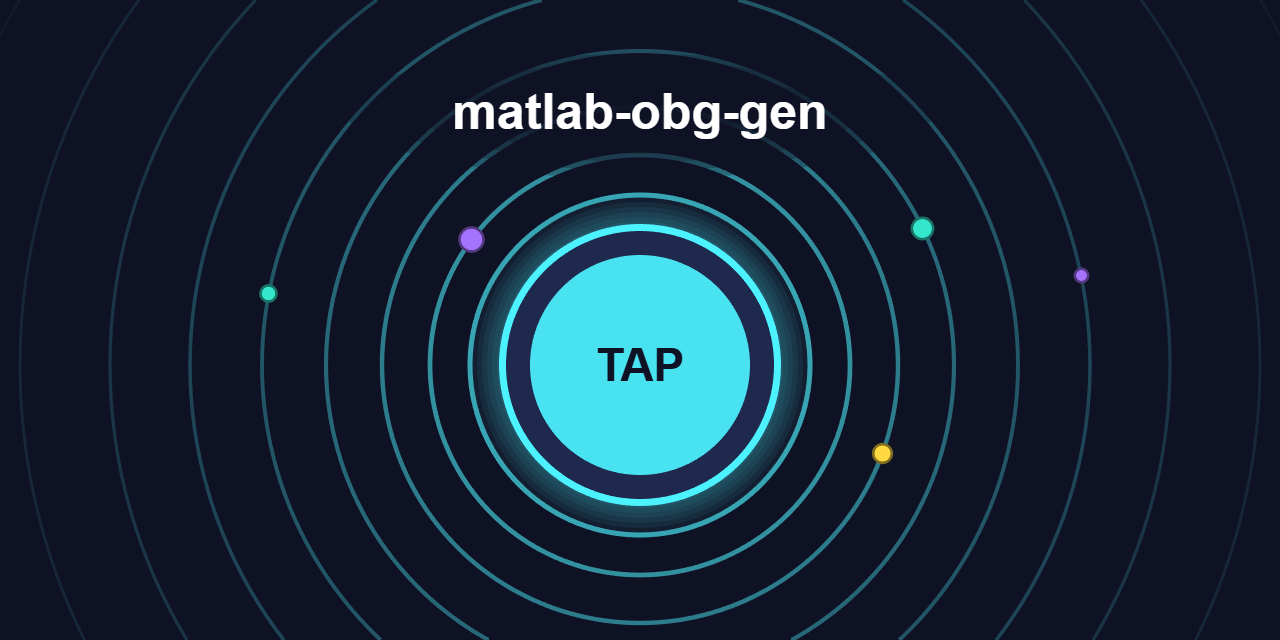
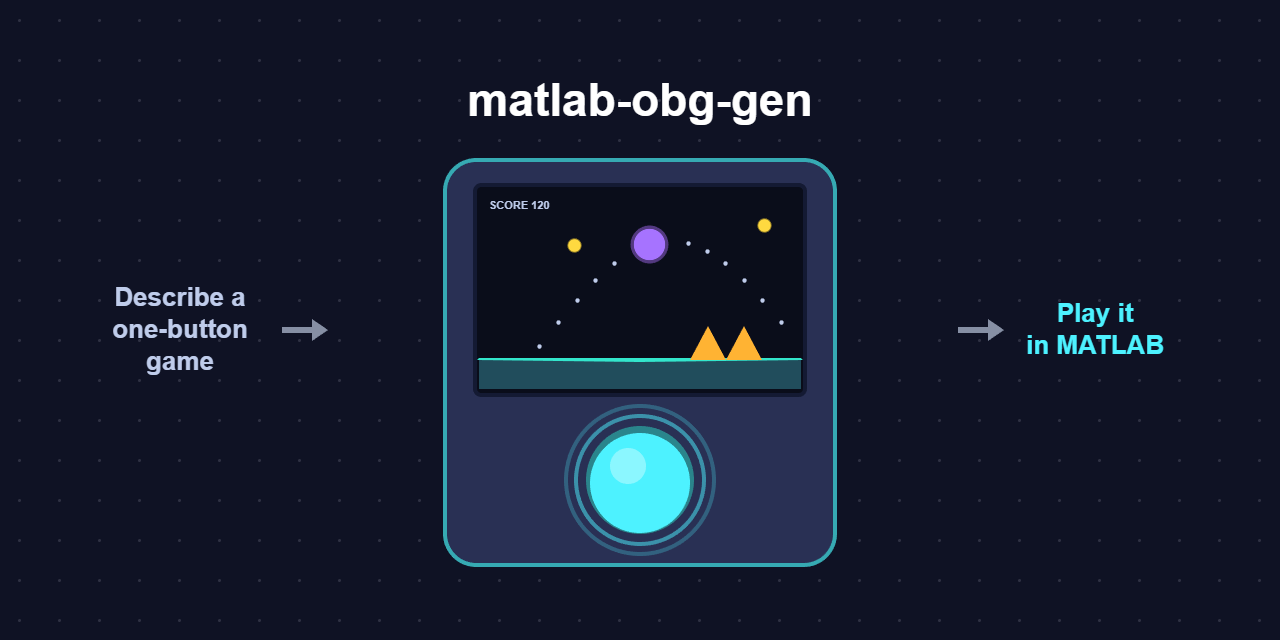
Social preview: a one-button game console (name, a game mid-jump, one big button), pitch at the sides

diff --git a/docs/makeSocialPreview.m b/docs/makeSocialPreview.m
@@ -1,15 +1,17 @@
 % Builds docs/images/social-preview.png (1280x640), the GitHub repo's social
-% preview: the name over one big button just tapped, its ripples spreading
-% out to the edges of the image. Everything is drawn in MATLAB.
+% preview: the name over a little one-button game console, its screen
+% showing a game mid-jump and its single big button just pressed.
+% Everything is drawn in MATLAB.
 %
 % Link previews crop hard. Teams shows a small 5:4 thumbnail of only the
 % centre of the image (measured: about x 333-948, y 77-569 of 1280x640), so
-% the name and the button sit inside x 350-930, y 90-550, drawn big enough to
-% read at thumbnail size. The ripples fill the rest, so any crop just trims
-% rings and still looks deliberate.
+% the name and the console sit inside x 350-930, y 90-550, drawn big enough
+% to read at thumbnail size. A dot grid runs to the edges, so any crop looks
+% deliberate.
 here = fileparts(mfilename('fullpath'));
-navy = [.06 .07 .14]; cyan = [.3 .95 1];
-violet = [.65 .45 1]; teal = [.2 .9 .8]; gold = [1 .85 .25];
+navy = [.06 .07 .14]; cyan = [.3 .95 1]; amber = [1 .7 .2];
+violet = [.65 .45 1]; teal = [.2 .9 .8]; gold = [1 .85 .25]; grey = [.75 .8 .92];
+body = [.16 .19 .33];
 
 f = uifigure('Visible', 'off', 'Units', 'pixels', 'Position', [50 50 1280 640]);
 ax = uiaxes(f, 'Units', 'pixels');
@@ -18,42 +20,53 @@ ax.YDir = 'reverse';
 ax.XTick = []; ax.YTick = []; ax.XAxis.Visible = 'off'; ax.YAxis.Visible = 'off';
 ax.Toolbar.Visible = 'off'; disableDefaultInteractivity(ax); hold(ax, 'on');
 patch(ax, [-100 1380 1380 -100], [-100 -100 740 740], navy, 'EdgeColor', 'none');
+[gx, gy] = meshgrid(20:40:1260, 20:40:620);   % a faint dot grid to the edges
+plot(ax, gx(:), gy(:), '.', 'Color', navy + .12, 'MarkerSize', 7);
 
-c = 640 + 365i; t = (0:179)*2*pi/180;   % no repeated end point (it shows as a seam)
-R = [170 210 258 314 378 450 530 620 720];
-for j = 1:numel(R)   % ripples, fading as they spread
-    z = c + R(j)*exp(1i*[t t(1:3)]);   % overlap the ends so there's no cap at the join
-    % a line, not a patch outline: patch edges show a seam where they close
-    plot(ax, real(z), imag(z), '-', 'LineWidth', 4 - 2*j/numel(R), ...
-        'Color', navy + .75*(1 - j/(numel(R) + 1))^1.3*(cyan - navy));   % opaque: no overlap tick at the join
+text(ax, 640, 100, 'matlab-obg-gen', 'FontSize', 46, 'FontWeight', 'bold', 'Color', 'w', ...
+    'HorizontalAlignment', 'center');
+
+% the pitch out to the sides (seen on GitHub; Teams crops it away)
+text(ax, 180, 330, sprintf('Describe a\none-button\ngame'), 'FontSize', 26, 'FontWeight', 'bold', ...
+    'Color', grey, 'HorizontalAlignment', 'center', 'VerticalAlignment', 'middle');
+text(ax, 1095, 330, sprintf('Play it\nin MATLAB'), 'FontSize', 26, 'FontWeight', 'bold', ...
+    'Color', cyan, 'HorizontalAlignment', 'center', 'VerticalAlignment', 'middle');
+for x0 = [282 958]   % arrows: idea -> console -> play (outside the Teams crop)
+    patch(ax, x0 + [0 30 30 46 30 30 0], 330 + [-3 -3 -11 0 11 3 3], grey*.7, 'EdgeColor', 'none');
 end
-% a few balls riding the ripples, in the game colours
-b = c + [R(2)*exp(-2.5i) R(4)*exp(-.45i) R(3)*exp(.35i) R(5)*exp(-2.95i) R(6)*exp(-.2i)];
-k = [violet; teal; gold; teal; violet];
-for j = 1:numel(b)
-    plot(ax, real(b(j)), imag(b(j)), 'o', 'MarkerSize', 20 - 2*j, ...
-        'MarkerFaceColor', k(j, :), 'Color', k(j, :)/2, 'LineWidth', 2);
+
+% the console
+t = (0:179)*2*pi/180;
+rectangle(ax, 'Position', [445 160 390 405], 'Curvature', .16, 'FaceColor', body, ...
+    'EdgeColor', cyan*.7, 'LineWidth', 3);
+
+% its screen: a little game, mid-jump
+sx = [475 805]; sy = [185 395];
+rectangle(ax, 'Position', [sx(1) sy(1) diff(sx) diff(sy)], 'Curvature', .06, ...
+    'FaceColor', [.04 .05 .1], 'EdgeColor', [.08 .1 .2], 'LineWidth', 3);
+patch(ax, [sx(1)+4 sx(2)-4 sx(2)-4 sx(1)+4], [360 360 sy(2)-6 sy(2)-6], [.13 .3 .36], 'EdgeColor', 'none');
+plot(ax, [sx(1)+4 sx(2)-4], [360 360], '-', 'Color', teal, 'LineWidth', 3);
+patch(ax, [690 708 726 744 762], [360 326 360 326 360], amber, 'EdgeColor', 'none');   % spikes
+arc = @(x) 346 - 105*sin(pi*(x - 540)/260);   % the jump, over the spikes
+x = linspace(540, 800, 15); k = x < 790 & abs(x - 650) > 20;
+plot(ax, x(k), arc(x(k)), '.', 'Color', grey, 'MarkerSize', 10);
+plot(ax, 650, arc(650), 'o', 'MarkerSize', 26, 'MarkerFaceColor', violet, ...
+    'Color', violet/2, 'LineWidth', 2.5);
+plot(ax, [575 765], [245 225], 'o', 'MarkerSize', 10, 'MarkerFaceColor', gold, 'Color', gold*.6);
+text(ax, sx(1) + 14, sy(1) + 20, 'SCORE 120', 'FontSize', 11, 'FontWeight', 'bold', 'Color', grey);
+
+% its one button, just pressed
+b = 640 + 480i;
+for r = [74 64]   % press ripples
+    z = b + r*exp(1i*[t t(1:3)]);
+    plot(ax, real(z), imag(z), '-', 'LineWidth', 3, 'Color', body + (r == 64)*.5*(cyan - body) + (r == 74)*.25*(cyan - body));
 end
-for j = 1:6   % soft glow
-    z = c + (138 + 5*j)*exp(1i*t);
-    patch(ax, real(z), imag(z), cyan, 'EdgeColor', 'none', 'FaceAlpha', .06);
-end
-z = c + 141*exp(1i*t);   % the rim as filled discs, not a thick outline (no corner at the join)
+z = b + 54*exp(1i*t);
+patch(ax, real(z), imag(z), cyan*.55, 'EdgeColor', 'none');
+z = b + 3i + 50*exp(1i*t);
 patch(ax, real(z), imag(z), cyan, 'EdgeColor', 'none');
-z = c + 134*exp(1i*t);
-patch(ax, real(z), imag(z), [.12 .16 .3], 'EdgeColor', 'none');
-z = c + 110*exp(1i*t);
-patch(ax, real(z), imag(z), cyan, 'EdgeColor', 'none', 'FaceAlpha', .92);
-text(ax, real(c), imag(c), 'TAP', 'FontSize', 46, 'FontWeight', 'bold', 'Color', navy, ...
-    'HorizontalAlignment', 'center');
-
-% the name, on a soft dark glow so the ripples don't run through it
-for j = 1:8
-    z = 640 + 112i + (1 - j/9)*(330*cos(t) + 1i*75*sin(t));
-    patch(ax, real(z), imag(z), navy, 'EdgeColor', 'none', 'FaceAlpha', .3);
-end
-text(ax, 640, 112, 'matlab-obg-gen', 'FontSize', 50, 'FontWeight', 'bold', 'Color', 'w', ...
-    'HorizontalAlignment', 'center');
+z = b - 12 - 14i + 18*exp(1i*t);   % highlight
+patch(ax, real(z), imag(z), 'w', 'EdgeColor', 'none', 'FaceAlpha', .35);
 
 ax.XLim = [0 1280]; ax.YLim = [0 640];   % drawing can re-fit the limits: lock them
 ax.XLimMode = 'manual'; ax.YLimMode = 'manual';
